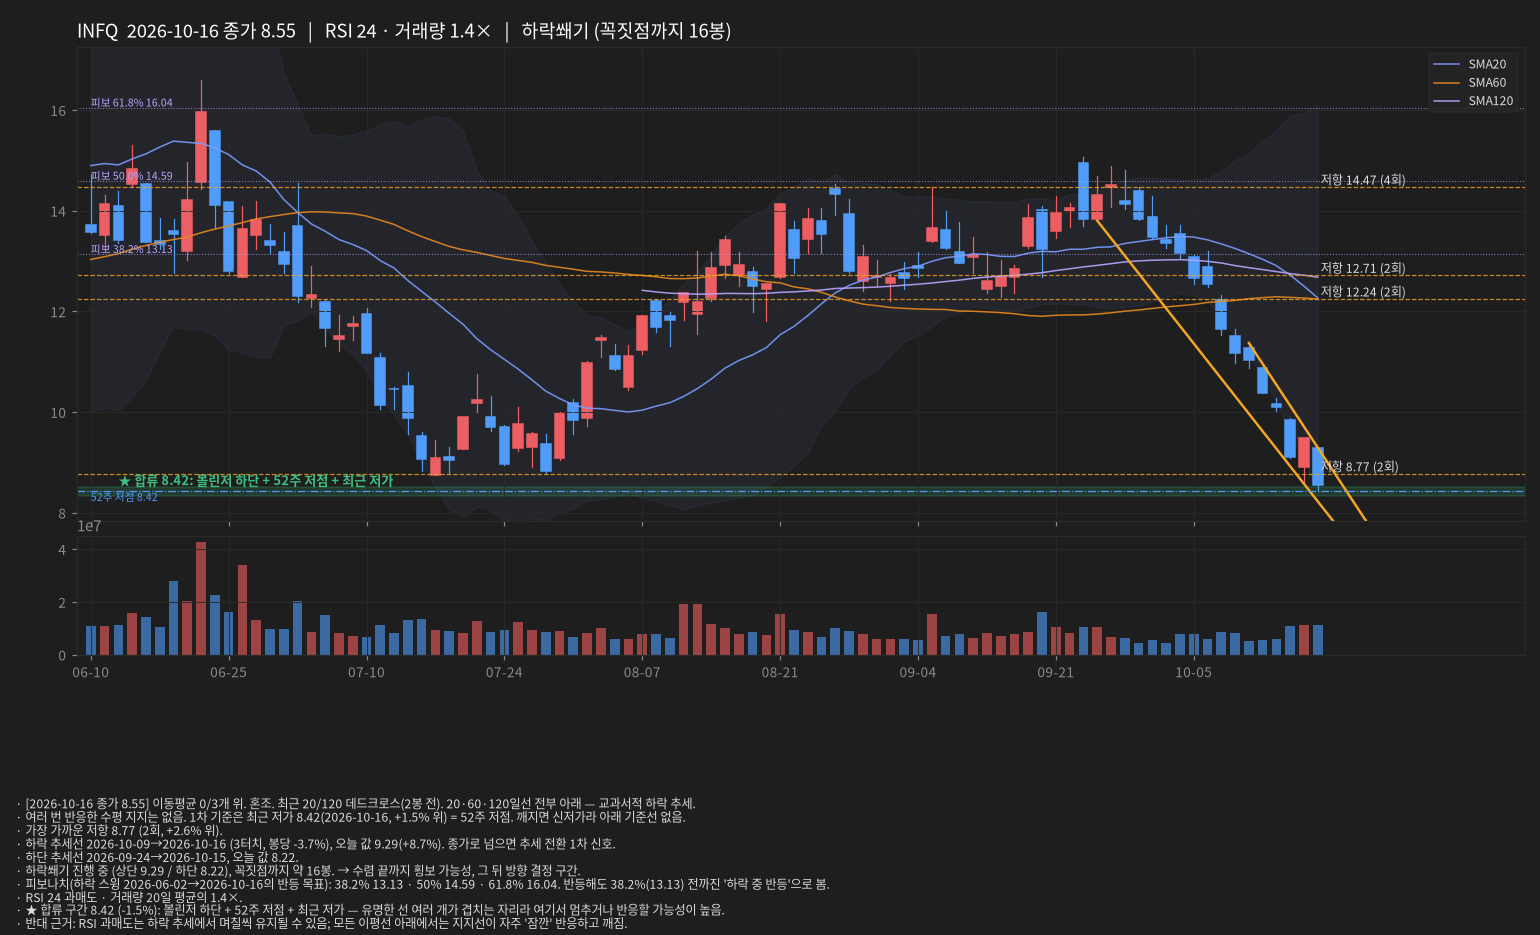
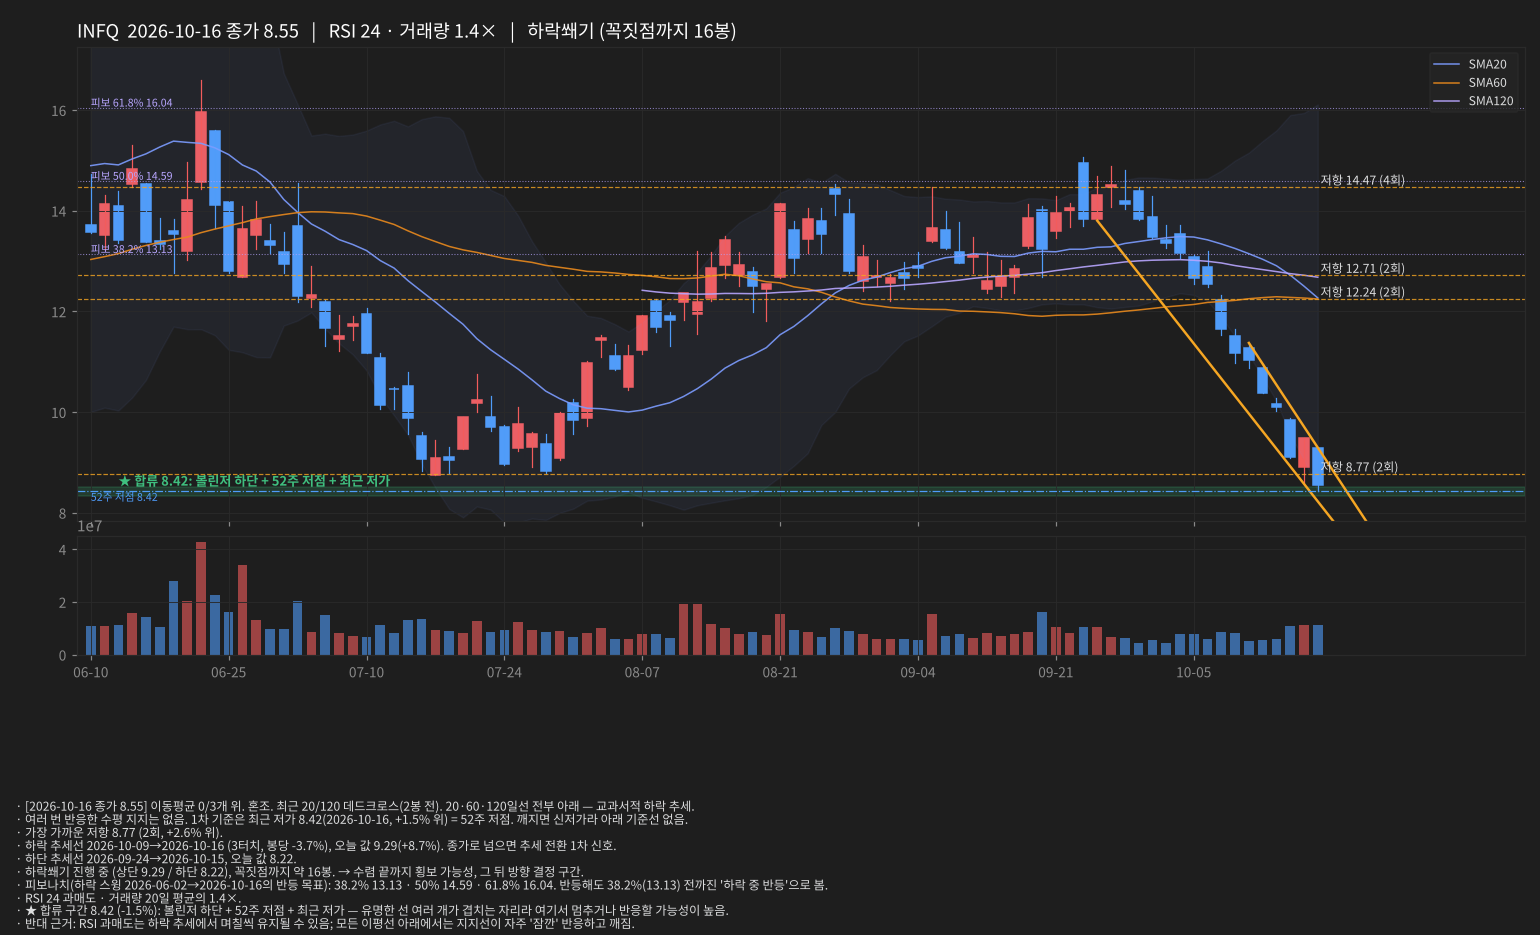
P2: 판단 보드 엔진(judge.py) + positions.json + 앱 판단 보드/상태 칩
Claude-Session: https://claude.ai/code/session_017L1pdvvWtmhmXcSMdeDQzf

diff --git a/app.js b/app.js
@@ -12,6 +12,24 @@ async function loadWatchlist() {
   const t = await (await fetch('watchlist.txt', { cache: 'no-store' })).text();
   return t.split('\n').map(s => s.trim()).filter(s => s && !s.startsWith('#'));
 }
+let _judge = null;
+async function loadJudge() { if (_judge) return _judge; try { _judge = await (await fetch('out/judgement.json', { cache: 'no-store' })).json(); } catch { _judge = {}; } return _judge; }
+const CHIP = { exit: ['정리', 'dn'], warn: ['주의', 'warn'], hold: ['보유', 'ok'], target: ['목표', 'ok'], enter: ['진입', 'ok'], wait: ['관망', 'mut'], none: ['—', 'mut'] };
+const chipHtml = j => { const [t, c] = CHIP[j?.chip] || CHIP.none; return `<span class="pill ${c}" style="border-color:currentColor;padding:1px 7px;font-size:11px">${t}</span>`; };
+function judgeBoard(j, k) {
+  if (!j || !j.rows) return '';
+  const f = v => v;
+  const rows = j.rows.map(r => `<div class="jrow ${r.tone}"><span class="mono">${r.cond}</span><span>${r.action}</span></div>`).join('');
+  const plan = (j.plan || []).length ? `<table style="margin-top:6px"><thead><tr><th>차수</th><th>조건</th><th>금액</th><th>상태</th></tr></thead><tbody>${j.plan.map(p => `<tr><td class="mono">${p.n}차</td><td>${p.cond}</td><td class="mono">${p.amount}</td><td class="${/체결/.test(p.status) ? 'ok' : 'mut'}">${p.status}</td></tr>`).join('')}</tbody></table>` : '';
+  const flags = (j.flags || []).map(x => `<div class="warn">! ${x}</div>`).join('');
+  const wt = (j.watch_today || []).map(x => `<div>· ${x}</div>`).join('');
+  const risk = j.held ? `<div class="mut">보유 ${j.qty}주 @ ${fmtP(j.avg, k)} · 손익 <b class="${cls(j.pnl_pct)}">${sgn(j.pnl_pct)}</b>${j.stop ? ` · 손절 ${fmtP(j.stop, k)} (여유 <b class="${j.stop_room_pct < 1 ? 'warn' : ''}">${j.stop_room_pct.toFixed(1)}%</b>)` : ''}${j.r_now != null ? ` · 현재 ${j.r_now.toFixed(2)}R` : ''}</div>` : '';
+  return `<section><header><span>판단 보드 · 종가 기준</span>${chipHtml(j)}</header>
+    <div class="sent"><div class="w" style="font-weight:600">${j.status}</div>${risk}${flags}</div>
+    <div class="jrows">${rows}</div>
+    ${plan ? `<div style="padding:0 12px 10px">${plan}</div>` : ''}
+    <div class="sent" style="border-top:1px solid var(--line)"><div class="mut" style="padding-left:0;text-indent:0">오늘 볼 것</div>${wt}${j.note ? `<div class="mut">메모: ${j.note}</div>` : ''}</div></section>`;
+}
 async function loadJson(sym) { try { return await (await fetch(`out/${sym}.json`, { cache: 'no-store' })).json(); } catch { return null; } }
 async function loadCsv(sym) {
   const t = await (await fetch(`data/${sym}.csv`, { cache: 'no-store' })).text();
@@ -26,13 +44,15 @@ function stamp() { const d = new Date(); return d.toLocaleString('ko-KR', { hour
 async function renderDesk() {
   setNav('desk');
   const syms = await loadWatchlist();
+  const J = await loadJudge();
   const items = (await Promise.all(syms.map(async s => ({ s, r: await loadJson(s) })))).filter(x => x.r);
   const rows = items.map(({ s, r }) => {
+    const j = J[s];
     const k = r.krw, c = r.close;
     const ma20 = r.ma.sma20?.value, tl = r.trend_upper?.value_today, conf = r.confluence?.[0];
     const sup = r.levels.filter(l => l.price < c).sort((a, b) => b.price - a.price)[0];
     const chg = r.rsi_volume.chg_pct;
-    const status = conf ? `<span class="ok">★ 합류 ${fmtP(conf.price, k)}</span>` : r.pattern?.type ? `<span class="warn">${r.pattern.type}</span>` : '<span class="mut">빈 공간</span>';
+    const status = j ? `${chipHtml(j)} <span class="dim" style="font-size:11px">${j.status}</span>` : conf ? `<span class="ok">★ 합류 ${fmtP(conf.price, k)}</span>` : r.pattern?.type ? `<span class="warn">${r.pattern.type}</span>` : '<span class="mut">빈 공간</span>';
     return `<tr class="r" onclick="location.hash='#/t/${s}'">
       <td class="w">${s}<div class="mut" style="font-size:11px">${r.asof}</div></td>
       <td class="mono ${cls(chg)}">${fmtP(c, k)}<div style="font-size:11px">${sgn(chg)}</div></td>
@@ -58,7 +78,8 @@ async function renderDesk() {
 /* ---------------- 종목 페이지 ---------------- */
 async function renderTicker(sym) {
   setNav('desk');
-  const [r, rows] = await Promise.all([loadJson(sym), loadCsv(sym)]);
+  const [r, rows, J] = await Promise.all([loadJson(sym), loadCsv(sym), loadJudge()]);
+  const j = J[sym];
   if (!r) { main.innerHTML = `<div class="bar"><h1>${sym}</h1><span class="mut">분석 결과 없음 — 다음 배치 후 생성</span></div>`; return; }
   const k = r.krw, c = r.close, f = v => fmtP(v, k);
   const conf = r.confluence || [];
@@ -90,6 +111,7 @@ async function renderTicker(sym) {
         </div></section>
       <section><header><span>선 목록 · 오늘 값</span><small>현재가 대비</small></header><div class="lines">${lt}</div></section>
     </div>
+    ${judgeBoard(j, k)}
     <section><header><span>해석</span><small>규칙 기반 · 가능성 표현 · 반대 근거 포함</small></header>
       <div class="sent">${r.sentences.map(s => `<div class="${s.startsWith('★') ? 'conf' : s.startsWith('반대 근거') ? 'counter' : ''}">· ${s}</div>`).join('')}</div></section>
     <section><header><span>정적 이미지</span><small>배치가 만든 PNG (동일 내용)</small></header><img src="out/${sym}.png" style="width:100%;display:block"></section>`;

diff --git a/index.html b/index.html
@@ -48,6 +48,11 @@ tr.r{cursor:pointer}tr.r:hover td{background:#2C2C2C}
 .lines .n{font-family:'IBM Plex Sans KR'}
 .btn{padding:6px 12px;border-radius:4px;border:1px solid #3A3A3A;background:#161616;color:var(--txt);font:inherit;cursor:pointer}
 .btn.pri{background:#3A3A3A;color:var(--w)}
+.jrows{font-family:'IBM Plex Mono',monospace;font-size:12px}
+.jrow{display:grid;grid-template-columns:150px 1fr;gap:10px;padding:8px 12px;border-top:1px solid var(--line)}
+.jrow span:last-child{font-family:'IBM Plex Sans KR'}
+.jrow.up span:first-child{color:var(--up);font-weight:600}.jrow.warn span:first-child{color:var(--warn);font-weight:600}.jrow.down span:first-child{color:var(--dn);font-weight:600}
+.jrow.warn{background:#262420}
 .tabbar{display:none}
 @media (max-width:860px){
   .app{grid-template-columns:1fr}

diff --git a/engine/judge.py b/engine/judge.py
@@ -1,0 +1,134 @@
+"""judge.py — P2 판단 보드
+입력: positions.json + out/<SYM>.json (lines.py 결과)
+출력: out/judgement.json  { symbol: {status, chip, rows[], watch_today[], plan[], risk{}, flags[]} }
+
+원칙: 종가 기준. 문장은 가능성. 손절선 없는 보유 포지션은 flags 로 경고.
+"""
+import json, sys
+from pathlib import Path
+
+ROOT = Path(__file__).resolve().parent.parent
+OUT = ROOT / "out"
+
+
+def fmt(v, krw):
+    return f"{v:,.0f}" if krw else f"{v:.2f}"
+
+
+def pct(a, b):
+    return (a / b - 1) * 100
+
+
+def judge_one(p: dict, r: dict, rules: dict) -> dict:
+    sym, krw, close = p["symbol"], r["krw"], r["close"]
+    f = lambda v: fmt(v, krw)
+    tl = r.get("trend_upper") or {}
+    tl_val = tl.get("value_today")
+    sma20 = (r.get("ma", {}).get("sma20") or {}).get("value")
+    conf = r.get("confluence") or []
+    flags, rows, watch_today = [], [], []
+    held = bool(p.get("qty"))
+    res = {"symbol": sym, "name": p.get("name", sym), "lot": p.get("lot", ""), "asof": r["asof"], "close": close, "krw": krw, "held": held}
+
+    if held:
+        stop = p.get("stop")
+        if stop is None:
+            flags.append("손절선 없음 — 규칙 위반. 매수 전 손절선 필수.")
+        avg = p["avg"]
+        pl = pct(close, avg)
+        res["pnl_pct"] = pl
+        res["qty"], res["avg"] = p["qty"], avg
+        if stop:
+            room = pct(close, stop)
+            res["stop"], res["stop_room_pct"] = stop, room
+            risk_per_share = avg - stop
+            res["r_now"] = (close - avg) / risk_per_share if risk_per_share > 0 else None
+            t1 = (p.get("targets") or [None])[0]
+            # 3행
+            if t1:
+                rows.append({"cond": f"≥ {f(t1)}", "action": "돌파 유지 → 다음 차수 검토", "tone": "up"})
+            rows.append({"cond": f"{f(stop)} ~ {f(t1) if t1 else '…'}", "action": "보유 · 반등 확인 전 추가 매수 금지", "tone": "warn"})
+            rows.append({"cond": f"< {f(stop)}", "action": f"{p.get('lot','')}분 정리" + (f" · 장기분은 {f(p['stop_long'])}" if p.get("stop_long") else ""), "tone": "down"})
+            # 상태
+            if close < stop:
+                status, chip = f"종가 손절 이탈 ({f(close)} < {f(stop)}) — 규칙상 {p.get('lot','')}분 정리", "exit"
+                if conf and conf[0]["price"] < close * 1.005 and conf[0]["price"] > stop * 0.97:
+                    flags.append(f"손절선 바로 아래 ★합류 {f(conf[0]['price'])}가 있음 — '합류 이탈'을 최종 기준으로 쓸지는 규칙 선택(장기분 버퍼와 같은 논리). 결정은 아침에.")
+            elif room <= rules.get("stop_warn_pct", 1.0):
+                status, chip = f"경계선 보유 — 손절까지 {room:.1f}%", "warn"
+            elif t1 and close >= t1:
+                status, chip = f"1차 목표 {f(t1)} 도달 — 분할 청산/다음 차수 검토", "target"
+            else:
+                status, chip = f"보유 — 손절까지 {room:.1f}% 여유", "hold"
+        else:
+            status, chip = "보유 (손절선 미설정)", "warn"
+        res["plan"] = p.get("plan", [])
+    else:
+        entry = p.get("entry") or {}
+        inv = p.get("invalid")
+        t = entry.get("type")
+        if t == "close_above" and entry.get("level"):
+            lvl = entry["level"]
+            rows.append({"cond": f"≥ {f(lvl)} 종가", "action": f"진입 조건 충족 → 1/3 ({entry.get('why','')})", "tone": "up"})
+            rows.append({"cond": f"{f(inv) if inv else '…'} ~ {f(lvl)}", "action": "조건 대기 · 관망", "tone": "warn"})
+            if inv:
+                rows.append({"cond": f"< {f(inv)}", "action": "시나리오 무효 — 관심 해제 검토", "tone": "down"})
+            if close >= lvl:
+                status, chip = f"진입 조건 충족 (종가 {f(close)} ≥ {f(lvl)})", "enter"
+            elif inv and close < inv:
+                status, chip = f"무효선 {f(inv)} 아래 — 시나리오 재검토", "exit"
+            else:
+                status, chip = f"조건 대기 — 진입선까지 {pct(lvl, close):+.1f}%", "wait"
+        elif t == "close_above_trend" and tl_val:
+            rows.append({"cond": f"≥ {f(tl_val)} 종가 (하락 추세선)", "action": "추세 전환 1차 → 1/3 검토", "tone": "up"})
+            rows.append({"cond": f"< {f(tl_val)}", "action": "관망 · 추세선 아래선 매수 없음", "tone": "warn"})
+            if close > tl_val:
+                status, chip = f"추세선 종가 돌파 ({f(close)} > {f(tl_val)}) — 1차 전환 신호", "enter"
+            else:
+                status, chip = f"조건 대기 — 추세선까지 {pct(tl_val, close):+.1f}%", "wait"
+        else:
+            if conf:
+                status, chip = f"관망 — ★합류 {f(conf[0]['price'])} ({pct(conf[0]['price'], close):+.1f}%) 반응 확인 전", "wait"
+            else:
+                status, chip = "관망 — 기준선 사이 빈 공간", "wait"
+
+    # 오늘 볼 것 (공통)
+    if tl_val:
+        watch_today.append(f"하락 추세선 {f(tl_val)} ({pct(tl_val, close):+.1f}%) — 종가로 넘으면 추세 전환 1차")
+    if sma20 and abs(pct(sma20, close)) <= 10:
+        watch_today.append(f"20일선 {f(sma20)} ({pct(sma20, close):+.1f}%)")
+    if conf:
+        g = conf[0]
+        watch_today.append(f"★합류 {f(g['price'])} ({pct(g['price'], close):+.1f}%): " + " + ".join(g["lines"]))
+    rv = r.get("rsi_volume", {})
+    if rv.get("rsi", 50) < 30:
+        watch_today.append(f"RSI {rv['rsi']:.0f} 과매도 — 거래량 늘며 오르면 바닥 신호 승격")
+    pat = r.get("pattern") or {}
+    if pat.get("type"):
+        watch_today.append(f"{pat['type']}" + (f" 꼭짓점까지 {pat['bars_to_apex']}봉" if pat.get("bars_to_apex") else "") + " — 상·하단 종가 이탈이 신호")
+
+    res.update({"status": status, "chip": chip, "rows": rows, "watch_today": watch_today, "flags": flags, "note": p.get("note", "")})
+    return res
+
+
+def main():
+    cfg = json.loads((ROOT / "positions.json").read_text(encoding="utf-8"))
+    rules = cfg.get("rules", {})
+    out = {}
+    for p in cfg["positions"]:
+        jp = OUT / f"{p['symbol']}.json"
+        if not jp.exists():
+            out[p["symbol"]] = {"symbol": p["symbol"], "status": "분석 결과 없음", "chip": "none", "rows": [], "watch_today": [], "flags": []}
+            continue
+        r = json.loads(jp.read_text(encoding="utf-8"))
+        out[p["symbol"]] = judge_one(p, r, rules)
+    (OUT / "judgement.json").write_text(json.dumps(out, ensure_ascii=False, indent=1), encoding="utf-8")
+    for s, j in out.items():
+        print(f"[{j.get('chip')}] {s}: {j['status']}")
+        for fl in j.get("flags", []):
+            print("   !", fl)
+    return out
+
+
+if __name__ == "__main__":
+    main()

diff --git a/engine/run_daily.py b/engine/run_daily.py
@@ -7,6 +7,7 @@ ROOT = Path(__file__).resolve().parent.parent
 sys.path.insert(0, str(ROOT / "engine"))
 from lines import analyze
 from render import render
+from judge import main as judge_main
 
 KST = timezone(timedelta(hours=9))
 
@@ -25,6 +26,12 @@ def main():
         md.append(f"![{s}](./{s}.png)")
         md += ["- " + x for x in r["sentences"]]
         md.append("")
+    jd = judge_main()
+    md.append("## 판단 보드")
+    for sym, j in jd.items():
+        md.append(f"- **{sym}** [{j.get('chip')}] {j['status']}")
+        for fl in j.get('flags', []): md.append(f"  - ! {fl}")
+    md.append("")
     (out / "summary.md").write_text("\n".join(md), encoding="utf-8")
     print("\n".join(md))
 

diff --git a/out/summary.md b/out/summary.md
@@ -1,4 +1,4 @@
-# 선 긋기 리포트 · 2026-10-19 17:44 KST
+# 선 긋기 리포트 · 2026-10-20 02:24 KST
 
 데이터: 야후 파이낸스 일봉(15분 지연) · 문장은 가능성 표현, 확률 아님
 
@@ -40,3 +40,9 @@
 - RSI 26 과매도 · 거래량 20일 평균의 1.1×.
 - 현재가 ±2% 안에 겹치는 유명한 선 없음 — 기준선 사이 '빈 공간'. 다음 선까지 미끄러질 수 있음.
 - 반대 근거: RSI 과매도는 하락 추세에서 며칠씩 유지될 수 있음; 모든 이평선 아래에서는 지지선이 자주 '잠깐' 반응하고 깨짐.
+
+## 판단 보드
+- **INFQ** [exit] 종가 손절 이탈 (8.55 < 8.57) — 규칙상 단기분 정리
+  - ! 손절선 바로 아래 ★합류 8.42가 있음 — '합류 이탈'을 최종 기준으로 쓸지는 규칙 선택(장기분 버퍼와 같은 논리). 결정은 아침에.
+- **005930.KS** [wait] 조건 대기 — 진입선까지 +5.5%
+- **000660.KS** [wait] 조건 대기 — 추세선까지 +0.0%
